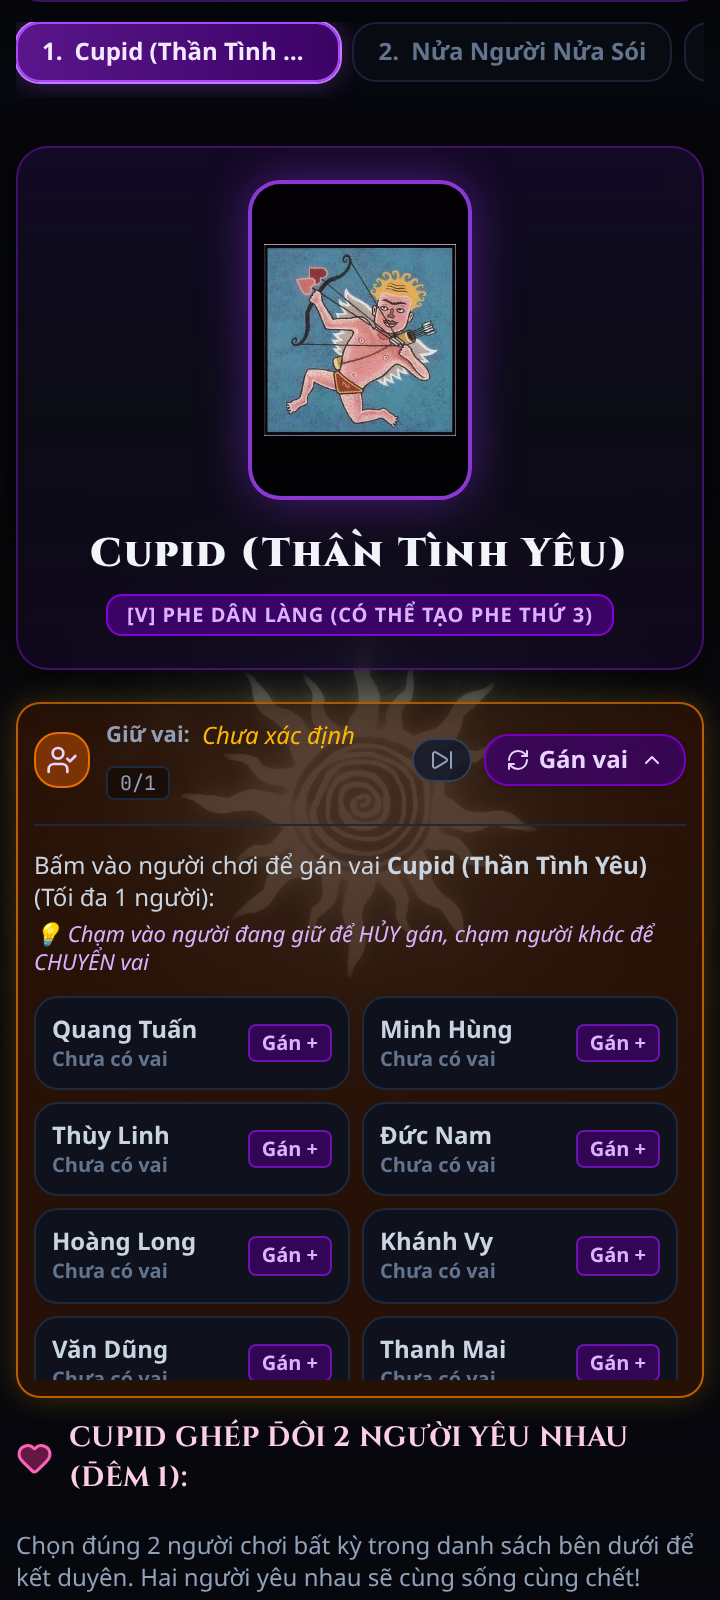
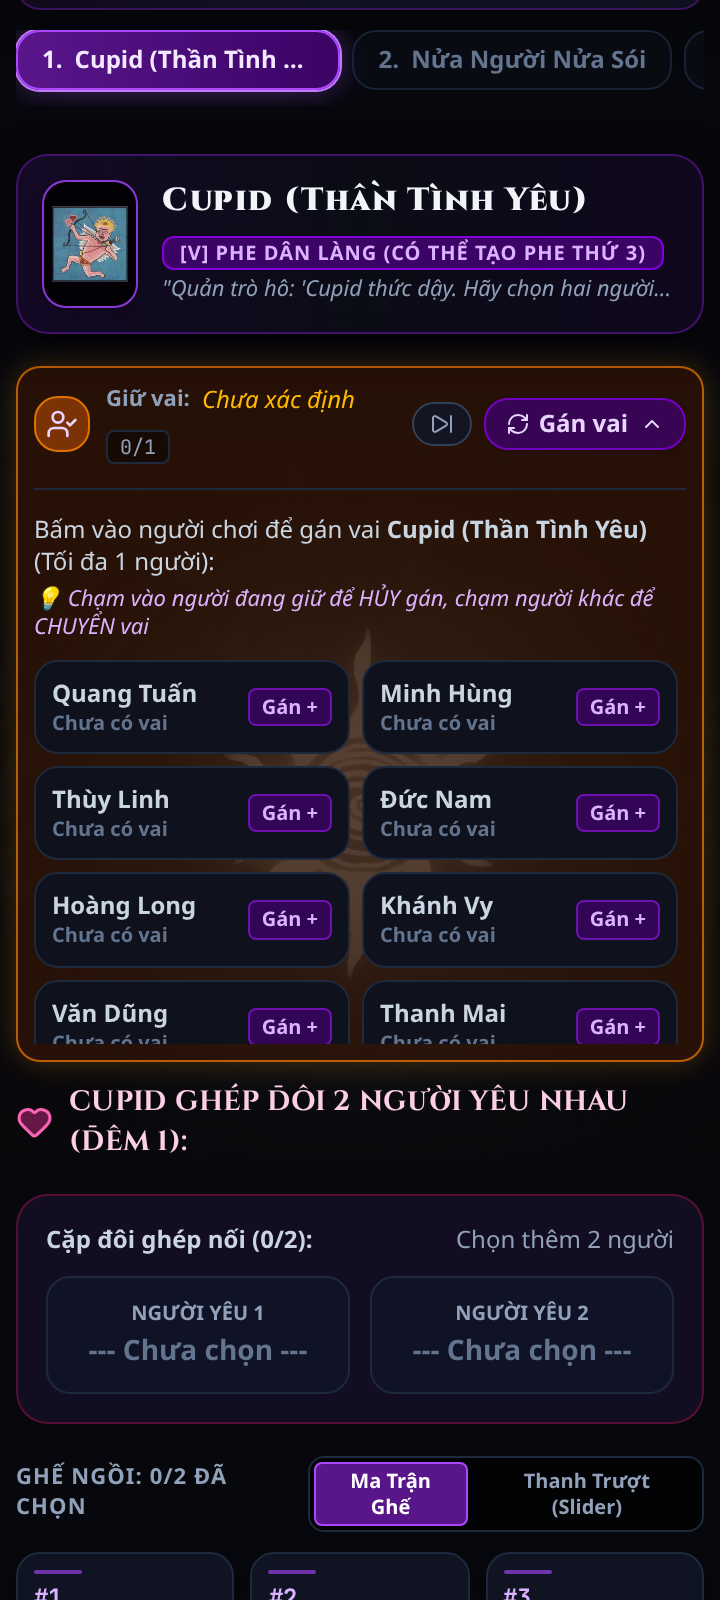
feat(ui): streamline night and day phase layouts and remove unnecessary meta-text

diff --git a/src/components/NightPhaseView.jsx b/src/components/NightPhaseView.jsx
@@ -546,9 +546,6 @@ export default function NightPhaseView({
               Bước {safeStepIdx + 1} / {nightSteps.length}
             </span>
           </div>
-          <h2 className="text-base sm:text-xl md:text-2xl font-cinzel font-black tracking-wide text-slate-100 mt-1 hidden sm:block">
-            QUY TRÌNH QUẢN TRÒ GỌI ĐÊM (LẦN LƯỢT)
-          </h2>
         </div>
 
         {/* Navigation buttons - Hidden on mobile because of sticky bottom nav bar */}
@@ -576,13 +573,15 @@ export default function NightPhaseView({
         </div>
       </div>
 
-      {/* DECK INVENTORY RADAR (TRACK REMAINING CARDS IN DECK) */}
-      <DeckInventoryRadar
-        players={players}
-        deckRoleIds={deckRoleIds}
-        onAutoAssignVillagers={onAutoAssignVillagers}
-        onAssignRole={onAssignRole}
-      />
+      {/* DECK INVENTORY RADAR (TRACK REMAINING CARDS IN DECK - AUTO HIDES ONCE ALL ROLES ARE ASSIGNED) */}
+      {!players.every(p => (p.currentRoleId || p.roleId)) && (
+        <DeckInventoryRadar
+          players={players}
+          deckRoleIds={deckRoleIds}
+          onAutoAssignVillagers={onAutoAssignVillagers}
+          onAssignRole={onAssignRole}
+        />
+      )}
 
       {/* Stepper Progress Bar (Breadcrumbs) */}
       <div className="overflow-x-auto pb-2 scrollbar-none">
@@ -645,21 +644,16 @@ export default function NightPhaseView({
       {/* MAIN GUIDED CARD HERO AREA */}
       {!isSummaryStep ? (
         <div className="space-y-4 sm:space-y-6">
-          {/* Hero Banner for current role - Card as Main Center, Name Underneath */}
-          <div className={`p-4 sm:p-5 rounded-2xl sm:rounded-3xl border transition-all relative overflow-hidden flex flex-col items-center justify-center text-center backdrop-blur-sm ${
+          {/* Compact Hero Banner for current role */}
+          <div className={`p-3 sm:p-4 rounded-2xl border transition-all relative overflow-hidden flex items-center justify-between gap-3 backdrop-blur-sm ${
             isWolfStep
-              ? 'bg-gradient-to-b from-[#2a0509]/80 via-[#150204]/75 to-[#250408]/80 border-rose-600/90 shadow-[0_0_35px_rgba(225,29,72,0.4)] ring-1 ring-rose-500/50'
-              : 'bg-gradient-to-b from-[#170a2c]/75 via-[#0d0e19]/70 to-[#120822]/75 border-purple-900/70 shadow-[0_4px_25px_rgba(0,0,0,0.7)]'
+              ? 'bg-gradient-to-r from-[#2a0509]/85 via-[#150204]/80 to-[#250408]/85 border-rose-600/90 shadow-[0_0_25px_rgba(225,29,72,0.35)] ring-1 ring-rose-500/50'
+              : 'bg-gradient-to-r from-[#170a2c]/80 via-[#0d0e19]/75 to-[#120822]/80 border-purple-900/70 shadow-[0_4px_20px_rgba(0,0,0,0.6)]'
           }`}>
-            {/* Ambient Background Glow */}
-            {isWolfStep && (
-              <div className="absolute top-1/2 left-1/2 -translate-x-1/2 -translate-y-1/2 w-72 h-72 bg-rose-600/20 rounded-full blur-3xl pointer-events-none"></div>
-            )}
-
-            {/* The Main Center Card */}
-            <div ref={cardRef} className="relative shrink-0 scroll-mt-24">
-              <div className={`w-28 h-40 sm:w-36 sm:h-50 md:w-40 md:h-56 rounded-2xl overflow-hidden border-2 p-1.5 shadow-2xl flex items-center justify-center bg-black/80 transition-transform duration-300 hover:scale-105 ${
-                isWolfStep ? 'border-rose-500 shadow-[0_0_30px_rgba(225,29,72,0.7)] animate-pulse' : 'border-purple-500/80 shadow-[0_0_25px_rgba(147,51,234,0.45)]'
+            <div className="flex items-center gap-3 min-w-0 flex-1">
+              {/* Compact Card Thumbnail */}
+              <div ref={cardRef} className={`w-12 h-16 sm:w-14 sm:h-20 rounded-xl overflow-hidden border p-1 shadow-lg flex items-center justify-center bg-black/80 shrink-0 ${
+                isWolfStep ? 'border-rose-500 shadow-[0_0_15px_rgba(225,29,72,0.5)]' : 'border-purple-500/80 shadow-[0_0_12px_rgba(147,51,234,0.4)]'
               }`}>
                 {currentRole.image ? (
                   <img
@@ -668,59 +662,31 @@ export default function NightPhaseView({
                     className="w-full h-full object-contain"
                   />
                 ) : (
-                  <div className="text-5xl flex items-center justify-center">
-                    {isWolfStep ? <WolfIcon className="w-16 h-16 text-rose-500" /> : '✨'}
+                  <div className="text-2xl flex items-center justify-center">
+                    {isWolfStep ? <WolfIcon className="w-8 h-8 text-rose-500" /> : '✨'}
                   </div>
                 )}
               </div>
 
-              {/* Tactical Badges on artwork */}
-              {currentRole.id === 'thang-ngoc' && (
-                <>
-                  <span className="absolute -top-3 -left-3 text-3xl filter drop-shadow animate-bounce select-none pointer-events-none z-20">🤡</span>
-                  <span className="absolute -top-4 -right-3 text-3xl filter drop-shadow animate-pulse select-none pointer-events-none z-20">🎈</span>
-                  <span className="absolute -bottom-3 -left-3 text-2xl filter drop-shadow select-none pointer-events-none z-20">🤹</span>
-                  <span className="absolute -bottom-3 -right-3 text-2xl filter drop-shadow select-none pointer-events-none z-20">🎉</span>
-                </>
-              )}
-              {currentRole.id === 'bao-ve' && (
-                <div className="absolute -bottom-2 -right-2 w-8 h-8 sm:w-9 sm:h-9 rounded-full bg-teal-500 text-slate-950 flex items-center justify-center shadow-lg border-2 border-slate-900 animate-bounce">
-                  <Shield className="w-5 h-5 fill-slate-950" />
+              {/* Role Title + Team Badge + GM Prompt */}
+              <div className="min-w-0 flex-1">
+                <div className="flex items-center gap-2 flex-wrap">
+                  <h3 className={`text-base sm:text-lg md:text-xl font-black font-cinzel leading-tight tracking-wider truncate ${
+                    isWolfStep ? 'text-rose-100 drop-shadow-[0_1px_10px_rgba(225,29,72,0.7)]' : 'text-slate-100'
+                  }`}>
+                    {currentRole.name}
+                  </h3>
+                  <span className={`text-[10px] font-bold px-2 py-0.2 rounded-md border uppercase tracking-wider shrink-0 ${
+                    isWolfStep ? 'bg-rose-950 text-rose-300 border-rose-700' : 'bg-purple-950 text-purple-300 border-purple-700'
+                  }`}>
+                    [{currentRole.teamCode}] {currentRole.team}
+                  </span>
                 </div>
-              )}
-              {currentRole.id === 'tien-tri' && (
-                <div className="absolute -bottom-2 -right-2 w-8 h-8 sm:w-9 sm:h-9 rounded-full bg-purple-500 text-white flex items-center justify-center shadow-lg border-2 border-slate-900 animate-pulse">
-                  <Eye className="w-5 h-5" />
-                </div>
-              )}
-              {isWolfStep && (
-                <div className="absolute -bottom-2 -right-2 w-8 h-8 sm:w-9 sm:h-9 rounded-full bg-rose-600 text-white flex items-center justify-center shadow-[0_0_12px_rgba(225,29,72,0.8)] border-2 border-slate-900 animate-pulse">
-                  <Skull className="w-5 h-5" />
-                </div>
-              )}
-              {currentRole.id === 'phu-thuy' && (
-                <div className="absolute -bottom-2 -right-2 w-8 h-8 sm:w-9 sm:h-9 rounded-full bg-purple-500 text-white flex items-center justify-center shadow-lg border-2 border-slate-900">
-                  <Sparkles className="w-5 h-5" />
-                </div>
-              )}
-            </div>
-
-            {/* Name Under the Card */}
-            <div className="mt-3.5 space-y-1.5 max-w-md mx-auto">
-              {/* Prominent Role Name */}
-              <h3 className={`text-xl sm:text-2xl md:text-3xl font-black font-cinzel leading-tight tracking-wider ${
-                isWolfStep ? 'text-rose-100 drop-shadow-[0_2px_15px_rgba(225,29,72,0.8)]' : 'text-slate-100'
-              }`}>
-                {currentRole.name}
-              </h3>
-
-              {/* Compact Badge: Team */}
-              <div className="flex items-center justify-center pt-0.5">
-                <span className={`text-[10px] sm:text-[11px] font-bold px-2.5 py-0.5 rounded-lg border uppercase tracking-wider ${
-                  isWolfStep ? 'bg-rose-950 text-rose-300 border-rose-700' : 'bg-purple-950 text-purple-300 border-purple-700'
-                }`}>
-                  [{currentRole.teamCode}] {currentRole.team}
-                </span>
+                {currentRole.gmCall && (
+                  <p className="text-[11px] sm:text-xs text-slate-400 italic line-clamp-1 mt-0.5">
+                    "{currentRole.gmCall}"
+                  </p>
+                )}
               </div>
             </div>
           </div>
@@ -783,10 +749,6 @@ export default function NightPhaseView({
                       CHỌN 1 NGƯỜI ĐỂ BẢO VỆ ĐÊM NAY:
                     </h4>
                   </div>
-
-                  <p className="text-xs text-slate-400">
-                    Chọn 1 người chơi để che chở khỏi móng vuốt Ma Sói đêm nay. Lưu ý: Không được bảo vệ cùng một người trong 2 đêm liên tiếp!
-                  </p>
 
                   {/* Summary Box of Protection */}
                   <div className="p-3.5 rounded-2xl bg-gradient-to-r from-teal-950/80 via-[#0e2a26] to-[#0a1816] border border-teal-600/70 shadow-lg">
@@ -909,10 +871,6 @@ export default function NightPhaseView({
                       QUẢN TRÒ CHỌN MỤC TIÊU BẦY SÓI CẮN:
                     </h4>
                   </div>
-
-                  <p className="text-xs text-slate-400">
-                    Bầy Sói thống nhất chọn con mồi để cắn đêm nay (không thể cắn đồng bọn Sói).
-                  </p>
 
                   {/* Summary Box of Wolf Hunt - Red Rose Theme */}
                   {(() => {
@@ -1419,10 +1377,6 @@ export default function NightPhaseView({
                     </h4>
                   </div>
 
-                  <p className="text-xs text-slate-400">
-                    Chọn đúng 2 người chơi bất kỳ trong danh sách bên dưới để kết duyên. Hai người yêu nhau sẽ cùng sống cùng chết!
-                  </p>
-
                   {/* SUMMARY COUPLE BOX (Fixed Geometry - Zero Layout Shift) */}
                   <div className="p-3.5 rounded-2xl bg-[#120d20] border border-pink-900/60 space-y-2">
                     <div className="flex items-center justify-between text-xs">
@@ -1523,9 +1477,6 @@ export default function NightPhaseView({
                     ĐỨA TRẺ HOANG DÃ CHỌN 1 THẦN TƯỢNG (IDOL):
                   </h4>
                 </div>
-                <p className="text-xs text-slate-400">
-                  Chọn 1 người chơi làm Thần Tượng. Nếu người này chết trong ván đấu, Đứa Trẻ Hoang Dã sẽ lập tức hóa thành <span className="text-rose-400 font-bold uppercase">MA SÓI</span>!
-                </p>
 
                 <div className="grid grid-cols-1 sm:grid-cols-2 md:grid-cols-3 gap-2.5">
                   {alivePlayers.map(p => {
@@ -1586,9 +1537,6 @@ export default function NightPhaseView({
                     ẢNH TỬ CHỌN 1 BẢN THỂ (CHỦ THỂ LIÊN KẾT):
                   </h4>
                 </div>
-                <p className="text-xs text-slate-400">
-                  Chọn 1 người chơi làm Bản Thể. Nếu người này bị giết trong ván đấu, Ảnh Tử sẽ lập tức <span className="text-purple-300 font-bold uppercase">KẾ THỪA VAI TRÒ</span> của họ!
-                </p>
 
                 <div className="grid grid-cols-1 sm:grid-cols-2 md:grid-cols-3 gap-2.5">
                   {alivePlayers.map(p => {
@@ -1653,9 +1601,6 @@ export default function NightPhaseView({
                       </h4>
                     </div>
                   </div>
-                  <p className="text-xs text-slate-400">
-                    Người Thổi Sáo thôi miên 2 người sống đêm nay. Khi toàn bộ người sống đều bị thôi miên, Người Thổi Sáo thắng đơn độc!
-                  </p>
 
                   <div className="grid grid-cols-1 sm:grid-cols-2 md:grid-cols-3 gap-2.5">
                     {alivePlayers.map(p => {
@@ -1862,10 +1807,6 @@ export default function NightPhaseView({
                     </button>
                   </div>
 
-                  <p className="text-xs text-slate-400">
-                    Cứ 2 đêm 1 lần, Sói Trắng thức dậy riêng và có thể chọn cắn chết 1 con Ma Sói khác để độc chiếm thắng đơn độc!
-                  </p>
-
                   {otherWolves.length === 0 ? (
                     <div className="p-4 rounded-2xl bg-slate-900/60 border border-slate-800 text-slate-400 text-xs text-center">
                       Không còn con Ma Sói đồng bọn nào khác còn sống trong bầy!
@@ -1927,10 +1868,6 @@ export default function NightPhaseView({
                   </button>
                 </div>
 
-                <p className="text-xs text-slate-400">
-                  Người bị Nguyệt Nữ chọn sẽ bị tước đoạt toàn bộ năng lực sử dụng trong đêm nay (Quản trò không cho dùng phép khi tới lượt).
-                </p>
-
                 <PlayerSeatPicker
                   players={alivePlayers}
                   selectedIds={nightState.silencedPlayerId && !nightState.moonPriestessSkipped ? [nightState.silencedPlayerId] : []}
@@ -1946,31 +1883,17 @@ export default function NightPhaseView({
 
           {/* STRICT VALIDATION BANNER & STEPPER FOOTER NAV (pb-28 on mobile ensures banner is NEVER cut off by sticky bottom bar) */}
           <div className="space-y-3 pt-2 pb-24 sm:pb-6">
-            {/* Gatekeeper Status Bar */}
-            {!stepValidation.isValid ? (
-              <div className="p-3 sm:p-3.5 rounded-2xl bg-[#141624]/90 backdrop-blur-md border border-amber-500/40 text-amber-200/90 shadow-xl flex flex-col sm:flex-row sm:items-center justify-between gap-2.5 animate-fade-in">
-                <div className="flex items-center gap-2.5 text-xs font-semibold">
-                  <div className="w-7 h-7 rounded-xl bg-amber-950/80 border border-amber-600/60 flex items-center justify-center shrink-0 shadow-[0_0_12px_rgba(245,158,11,0.25)]">
-                    <AlertTriangle className="w-3.5 h-3.5 text-amber-400" />
-                  </div>
-                  <span className="leading-relaxed">{stepValidation.message}</span>
-                </div>
-                <GothicButton
-                  variant="gold"
-                  size="sm"
+            {/* Optional GM Override button (clean & non-intrusive) */}
+            {!stepValidation.isValid && !stepValidation.isStrictBlock && (
+              <div className="flex items-center justify-end animate-fade-in pr-1">
+                <button
+                  type="button"
                   onClick={() => handleNextStep(true)}
-                  className="h-8 px-3 text-xs whitespace-nowrap self-end sm:self-auto shrink-0"
+                  className="text-xs font-bold text-amber-400/90 hover:text-amber-300 flex items-center gap-1 cursor-pointer transition-colors px-2 py-1 rounded-lg bg-amber-950/40 border border-amber-800/50"
                 >
-                  <span>Bỏ qua bắt buộc</span>
-                  <ArrowRight className="w-3.5 h-3.5 ml-1 inline" />
-                </GothicButton>
-              </div>
-            ) : (
-              <div className="p-2.5 sm:p-3 rounded-2xl bg-[#141624]/90 backdrop-blur-md border border-emerald-600/40 text-emerald-200/90 flex items-center gap-2.5 text-xs shadow-lg">
-                <div className="w-6 h-6 rounded-lg bg-emerald-950/80 border border-emerald-600/60 flex items-center justify-center shrink-0 shadow-[0_0_10px_rgba(16,185,129,0.2)]">
-                  <Check className="w-3.5 h-3.5 text-emerald-400" />
-                </div>
-                <span>{stepValidation.message || 'Hành động hợp lệ. Sẵn sàng tiếp tục.'}</span>
+                  <span>Bỏ qua bước này (Quản trò ghi đè)</span>
+                  <ArrowRight className="w-3 h-3" />
+                </button>
               </div>
             )}
 

diff --git a/src/components/DayPhaseView.jsx b/src/components/DayPhaseView.jsx
@@ -71,31 +71,23 @@ export default function DayPhaseView({
           <Sun className="w-4 h-4 text-amber-400" />
           Ban Ngày - Ngày Thứ {roundNumber}
         </div>
-        <h2 className="text-3xl font-cinzel font-black tracking-wider text-slate-100">
+        <h2 className="text-2xl sm:text-3xl font-cinzel font-black tracking-wider text-slate-100">
           LÀNG THỨC GIẤC & BIỂU QUYẾT
         </h2>
-        <p className="text-sm text-slate-400 mt-1">
-          Quản trò công bố thương vong đêm qua, mở thảo luận và tiến hành bỏ phiếu (Quy tắc: tối đa 1 người bị treo cổ mỗi ngày).
-        </p>
       </div>
 
-      {/* Night Casualty Announcement Card */}
+      {/* Night Casualty Announcement Card - Streamlined */}
       {(() => {
         const deadTonight = players.filter(p => !p.isAlive && p.deathPhase === `Đêm ${roundNumber}`);
         const detailLogs = (nightLogs || []).filter(log => !log.startsWith('Đêm qua có ') && !log.startsWith('Đêm qua bình yên'));
 
         return (
-          <div className="p-4 rounded-2xl bg-[#141624]/60 backdrop-blur-md border border-slate-700/60 shadow-xl space-y-3">
-            <h3 className="font-bold text-sm text-slate-200 flex items-center gap-2">
-              <Skull className="w-4 h-4 text-rose-400" />
-              Bản Tin Thương Vong Trong Đêm:
-            </h3>
-
-            {/* DÒNG ĐẦU TIÊN BẮT BUỘC: SỐ LƯỢNG NGƯỜI CHẾT VÀ TÊN TỪNG NGƯỜI */}
-            <div className={`p-3.5 rounded-xl border flex items-center gap-3 font-cinzel text-sm sm:text-base font-black ${
+          <div className="space-y-2">
+            {/* DÒNG ĐẦU TIÊN: SỐ LƯỢNG NGƯỜI CHẾT VÀ TÊN TỪNG NGƯỜI */}
+            <div className={`p-3.5 sm:p-4 rounded-2xl border flex items-center gap-3 font-cinzel text-sm sm:text-base font-black ${
               deadTonight.length > 0
-                ? 'bg-rose-950/80 border-rose-500 text-rose-100 shadow-[0_0_15px_rgba(225,29,72,0.4)]'
-                : 'bg-emerald-950/70 border-emerald-500/80 text-emerald-200'
+                ? 'bg-rose-950/80 border-rose-500 text-rose-100 shadow-[0_0_20px_rgba(225,29,72,0.35)]'
+                : 'bg-emerald-950/70 border-emerald-500/80 text-emerald-200 shadow-md'
             }`}>
               <Skull className={`w-5 h-5 shrink-0 ${deadTonight.length > 0 ? 'text-rose-400 animate-pulse' : 'text-emerald-400'}`} />
               <div className="flex-1">
@@ -111,18 +103,15 @@ export default function DayPhaseView({
               </div>
             </div>
 
-            {/* CÁC MÔ TẢ CHI TIẾT NẰM Ở DƯỚI */}
+            {/* CÁC MÔ TẢ CHI TIẾT NẰM Ở DƯỚI NẾU CÓ */}
             {detailLogs.length > 0 && (
-              <div className="space-y-2 pt-1">
-                <span className="text-[11px] uppercase tracking-wider font-bold text-slate-400 block">
-                  Chi tiết diễn biến đêm:
-                </span>
+              <div className="space-y-1.5 pt-1">
                 {detailLogs.map((log, index) => (
                   <div 
                     key={index}
-                    className="p-3 rounded-xl bg-slate-900/60 backdrop-blur-sm border border-slate-700/70 text-slate-200 text-xs sm:text-sm flex items-start gap-2.5"
+                    className="p-2.5 rounded-xl bg-slate-900/60 backdrop-blur-sm border border-slate-700/60 text-slate-200 text-xs sm:text-sm flex items-start gap-2"
                   >
-                    <AlertTriangle className="w-4 h-4 text-amber-400 shrink-0 mt-0.5" />
+                    <AlertTriangle className="w-3.5 h-3.5 text-amber-400 shrink-0 mt-0.5" />
                     <span>{log}</span>
                   </div>
                 ))}
@@ -489,9 +478,6 @@ export default function DayPhaseView({
               <Flame className="w-5 h-5 text-orange-400" />
               BIỂU QUYẾT TREO CỔ (BỎ PHIẾU BAN NGÀY)
             </h3>
-            <p className="text-xs text-slate-400 mt-1">
-              Mỗi sáng dân làng chỉ được biểu quyết treo cổ <strong className="text-amber-300 font-bold">tối đa 1 người</strong>.
-            </p>
           </div>
 
           {hasLynchedToday && (
@@ -515,9 +501,6 @@ export default function DayPhaseView({
               <div className="text-xl font-black font-cinzel text-white">
                 Nạn nhân: {lynchedPlayer?.name || 'Người chơi'} ({getPlayerRole(lynchedPlayer)?.name || 'Chưa lộ vai'})
               </div>
-              <p className="text-xs text-slate-300 mt-1">
-                Làng đã hoàn tất xử tử 1 người trong ngày hôm nay. Không thể treo cổ thêm người nào khác!
-              </p>
             </div>
 
             <div className="pt-2 flex flex-wrap items-center justify-center gap-2">

diff --git a/docs/SESSION_HANDOVER.md b/docs/SESSION_HANDOVER.md
@@ -450,6 +450,21 @@ Theo quy chuẩn [docs/game-rules.md](file:///home/levi/Desktop/Projects/werewol
 - **Thiên Sứ / Thiên Thần (`thien-su`, `App.jsx`)**:
   - Kích hoạt chiến thắng ngay lập tức nếu bị Ma Sói cắn chết ở Đêm 1 hoặc bị biểu quyết treo cổ ở Ngày 1.
 
+## 25. Tinh Giản Toàn Diện UI/UX & Loại Bỏ Thiết Kế Thừa (UI De-clutter)
+- **Compact Hero Banner (`NightPhaseView.jsx`)**:
+  - Thay thế thẻ Tarot to dọc 220px choán nửa màn hình bằng **Thanh Hero ngang tinh giản (~70px)**: Thumbnail thẻ bài (`w-12 h-16`), tên vai Cinzel, badge phe phái và câu hô quản trò trong 1 hàng duy nhất.
+  - **Kết quả vượt trội**: Toàn bộ ma trận ghế ngồi (`PlayerSeatPicker`) hiện ngay trên màn hình đầu tiên (Above the fold), Quản trò không cần vuốt cuộn màn hình trên iPhone.
+- **Xóa Sạch Đoạn Văn Hướng Dẫn Dài Dòng (Instructional Meta-Text)**:
+  - Loại bỏ hoàn toàn các đoạn văn giải thích luật chơi ở từng bước vai (Bảo Vệ, Sói, Cupid, Đứa Trẻ Hoang Dã, Ảnh Tử, Thổi Sáo, Cáo, Sói Trắng, Nguyệt Nữ, Ban Ngày).
+  - Giữ lại nhãn mục tiêu ngắn gọn, súc tích và trực quan.
+- **Tự Động Ẩn Kho Bài (Deck Radar) Khi Đã Gán Đủ (`NightPhaseView.jsx`)**:
+  - Khi tất cả người chơi đã được gán vai, thanh Kho Bài tự động ẩn khỏi giao diện gọi đêm, trả lại khoảng trống đỉnh màn hình.
+- **Xóa Bỏ Thanh Trạng Thái Trùng Lặp Chân Trang (`NightPhaseView.jsx`)**:
+  - Gỡ bỏ khối cảnh báo cố định lặp lại phía trên footer. Chỉ giữ lại nút bấm *"Bỏ qua bước này (Quản trò ghi đè)"* tối giản khi cần thiết.
+- **Gọt Bớt Khối Bản Tin Thương Vong Ban Ngày (`DayPhaseView.jsx`)**:
+  - Hợp nhất các hộp lồng nhau thành 1 banner thống nhất, xóa bỏ các câu văn thừa ở phần tiêu đề và biểu quyết.
+
+
 
 
 
